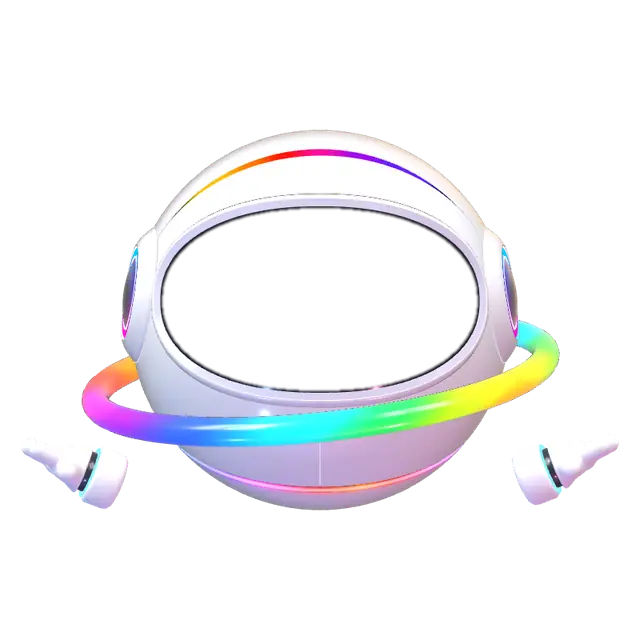
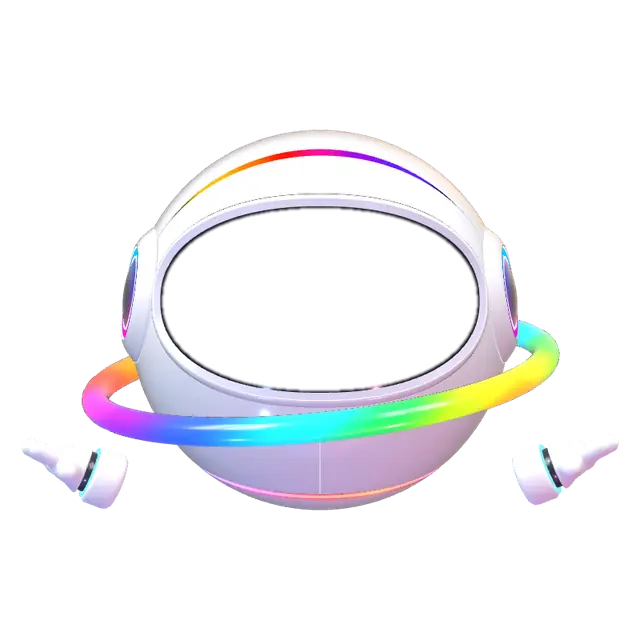
Character: one flat, slightly tilted cut across the bottom
The owner: "I see the bend on left and right side ... if nothing possible, you cut
straight cut ... with a slight elevation ... it should be very perfect cutting.
There should not be any curve, the angle deviations or anything like that." The
cut is now one flat cut across the bottom of the ball, tilted back 20 degrees:
a perfect circle on the ball, so it is one even arc from the front and a straight,
gentle rise from the side, low under the face and a little higher at the back,
with no bend anywhere and the same gap all round. The loader pictures and the
Home still are re-rendered.

Claude-Session: https://claude.ai/code/session_011BdSE2fEeiEv9ZgoYmWAPn

Changed region(s): [[0.3125, 0.7188, 0.6875, 0.7812], [0.6875, 0.6875, 0.7188, 0.7188], [0.2812, 0.6875, 0.3125, 0.7188]]

diff --git a/src/lib/character3d.js b/src/lib/character3d.js
@@ -337,29 +337,21 @@ export class Character {
     body.updateMatrixWorld(true);
     const chin = body.getObjectByName("SeamChin"), seamMat = chin?.material;
     for (const n of ["Sphere_1", "Sphere_2", "LowSeam", "LowSeamGlow", "SeamChin"]) body.getObjectByName(n)?.removeFromParent();
-    // The cut, as on the reference sheet: round the ball at RHO(f) from its lowest point, f being the way round from the
-    // front. Under the face it is the edge of a plane tilted back by TILT, so from the front it is one true, even arc, the
-    // same on both sides (Lucky, 25 Nov: "equal weight and perfect curve for front view"); it reaches SIDE at each side,
-    // then rises on to BACK across the back, levelling off as it goes, its slope carried on smoothly, so from the side
-    // it climbs and flattens out high at the back (Lucky's markup: "you can see that curve shape. Follow this").
-    const TILT = 26 * rad, CAP = 59 * rad, BACK = 73 * rad;
-    const plane = (a) => { const p = Math.cos(TILT), q = -Math.sin(TILT) * Math.cos(a), r = Math.hypot(p, q); return Math.atan2(q, p) + Math.acos(Math.cos(CAP) / r); };
-    // From the side on, it goes on rising at the same slope and eases out to level across the back, with no sudden bend
-    // (Lucky: "side view is not perfect arc or curved"): no change of curvature where the two halves meet, none at the back.
-    const SIDE = plane(Math.PI / 2), n = (Math.tan(TILT) * (Math.PI / 2)) / (BACK - SIDE);
-    const ease = (t) => n * t + (10 - 6 * n) * t ** 3 + (8 * n - 15) * t ** 4 + (6 - 3 * n) * t ** 5;
-    const RHO = (f) => {
-      const a = Math.abs(Math.atan2(Math.sin(f), Math.cos(f)));
-      return a <= Math.PI / 2 ? plane(a) : SIDE + (BACK - SIDE) * ease((a - Math.PI / 2) / (Math.PI / 2));
-    };
-    const AX = new V3(0, -1, 0), U = new V3(0, 0, 1), V = AX.clone().cross(U);
-    // The same gap all the way round (Lucky: "all the side cutting gaps should be the same"): widths are measured across
-    // the cut, so where it climbs steeply they are spread a little further along RHO (K) to stay the same across it.
+    // The cut (Lucky, 25 Nov: "it should be very perfect cutting. There should not be any curve, the angle deviations
+    // or anything like that ... you cut straight cut ... with a slight elevation"): one flat cut across the bottom of
+    // the ball, tilted back by TILT, so it is a perfect circle on the ball: one true, even arc from the front, a
+    // straight, gentle rise from the side, low under the face and a little higher at the back, never a bend. RHO is its
+    // angle from AX, the middle of the bottom panel; f goes round from the front.
+    const TILT = 20 * rad, CAP = 48 * rad;
+    const AX = new V3(0, -Math.cos(TILT), -Math.sin(TILT)), U = new V3(0, -Math.sin(TILT), Math.cos(TILT)), V = AX.clone().cross(U);
+    const RHO = () => CAP;
+    // The same gap all the way round (Lucky: "all the side cutting gaps should be the same"): on a flat cut every
+    // width is the same all round (K would spread widths where a cut climbs steeply; here it is 1 everywhere).
     const K = (f) => { const e = 1e-3, d = (RHO(f + e) - RHO(f - e)) / (2 * e); return Math.hypot(1, d / Math.sin(RHO(f))); };
     const dir = (th, f) => new V3().copy(U).multiplyScalar(Math.cos(f)).addScaledVector(V, Math.sin(f)).multiplyScalar(Math.sin(th)).addScaledVector(AX, Math.cos(th));
     const tang = (th, f) => new V3().copy(U).multiplyScalar(Math.cos(f)).addScaledVector(V, Math.sin(f)).multiplyScalar(Math.cos(th)).addScaledVector(AX, -Math.sin(th));
     const polar = (q) => { const d = q.clone().normalize(); return [Math.acos(Math.max(-1, Math.min(1, d.dot(AX)))), Math.atan2(d.dot(V), d.dot(U))]; };
-    const RP = 1, BP = 0.022, BS = 0.009, FLOOR = 0.9, OUT = 80 * rad, N = 240;
+    const RP = 1, BP = 0.022, BS = 0.009, FLOOR = 0.9, OUT = 75 * rad, N = 240;
     const edgeOf = (f) => RHO(f) - 0.033 * K(f);                         // the panel's edge
     const wallOf = (f) => RHO(f) + 0.006 * K(f);                         // the shell's wall
     // The shell: shaded as a ball (its points are packed small numbers: normals are rewritten, points never), and

diff --git a/LAUNCH-CHECKLIST.md b/LAUNCH-CHECKLIST.md
@@ -7,7 +7,7 @@ Tick items as they are done.
 
 - [ ] Run the full checks in CLAUDE.md: lint, types, build, `npm run audit`, Lighthouse on mobile and desktop. (Run on the staging site on 16 November 2026, results below. Run them once more on Hostinger after the move.)
 - [x] Phone speed on pagespeed.web.dev (target 97+), 17 November, after each page's main image moved to the site's own address: `/work` 97, `/services/ai-websites` 96, `/work/cabot-solutions` 96 (were 95, 90 and 94); desktop 100 on all three. A score moves a point or two between runs. Putting the styles inside each page (`inlineCss`) was tried and undone: it made phones slower.
-- [x] The "View" cursor is back (25 November, the owner approved it from a picture): a dot that follows the mouse, a ring over links and buttons, a "View" disc over work; computers with a mouse only, the normal pointer for touch screens and reduced motion (`src/components/motion/Cursor.tsx`). The character's bottom is a real panel in a cut (the owner, from four reference pictures: "it has a cutting ... this bottom rack will open ... inside that cutting that light gradient light comes in"): the cut follows the reference sheet: one true, even arc from the front, the same on both sides (the owner: "equal weight and perfect curve for front view"), and one smooth curve from the side with no sudden bend ("side view is not perfect arc or curved") and an S from the side, low under the face, rising round each side and high across the back (the owner's markup: "U can see that curve shape. Follow this"), with the same gap all the way round (the owner: "all the side cutting gaps should be the same"); the panel is part of the same ball as the shell, so the outline stays a perfect circle (the owner: "there will be only the cutting in between the perfect circle"), with rounded edges and walls down into a dark slot, and the gradient light is inside the cut, on the panel's edge, spilling onto the panel and the walls, dark across the back; no soft halo, and the shell is shaded as a true ball (`bottomCut` in `src/lib/character3d.js`). The loader pictures and the Home still are re-rendered with it.
+- [x] The "View" cursor is back (25 November, the owner approved it from a picture): a dot that follows the mouse, a ring over links and buttons, a "View" disc over work; computers with a mouse only, the normal pointer for touch screens and reduced motion (`src/components/motion/Cursor.tsx`). The character's bottom is a real panel in a cut (the owner, from four reference pictures: "it has a cutting ... this bottom rack will open ... inside that cutting that light gradient light comes in"): the cut is one flat cut across the bottom of the ball, tilted back 20 degrees (the owner: "it should be very perfect cutting ... you cut straight cut ... with a slight elevation"), so it is a perfect circle on the ball: one even arc from the front, a straight, gentle rise from the side, never a bend, with the same gap all the way round (the owner: "all the side cutting gaps should be the same"); the panel is part of the same ball as the shell, so the outline stays a perfect circle (the owner: "there will be only the cutting in between the perfect circle"), with rounded edges and walls down into a dark slot, and the gradient light is inside the cut, on the panel's edge, spilling onto the panel and the walls, dark across the back; no soft halo, and the shell is shaded as a true ball (`bottomCut` in `src/lib/character3d.js`). The loader pictures and the Home still are re-rendered with it.
 - [x] Home speed with the backflip loader (25 November, the owner's pagespeed.web.dev run, a first visit with the loader): phone 97, desktop 97; accessibility, best practices and SEO 100. The loader hides the page for about 1.5 s on purpose, which is what keeps desktop off 100 (100 with it skipped in our own test).
 - [x] Phone speed on Home since the first-visit character intro went live (19 November): pagespeed.web.dev on 20 November (the owner's run, a first visit with the intro): phone 98, desktop 98; accessibility, best practices and SEO 100. Lighthouse in the test environment gave 97 to 99 (50 before that day's fixes). Desktop is a point under the 99 goal: what is left is the intro covering the first screen while it plays; repeat visits skip it.
 - [x] Firefox (20 November): Firefox 160 from Mozilla's own package source (the owner allowed `packages.mozilla.org` in the test environment). Every page at phone, tablet and desktop widths (102 page loads) and the click-through checks: all fine. Fixed on the way: a case study's website address wrapped mid-word on phones ("cabotsolutions.co / m"); it now breaks before the ending ("cabotsolutions / .com").
